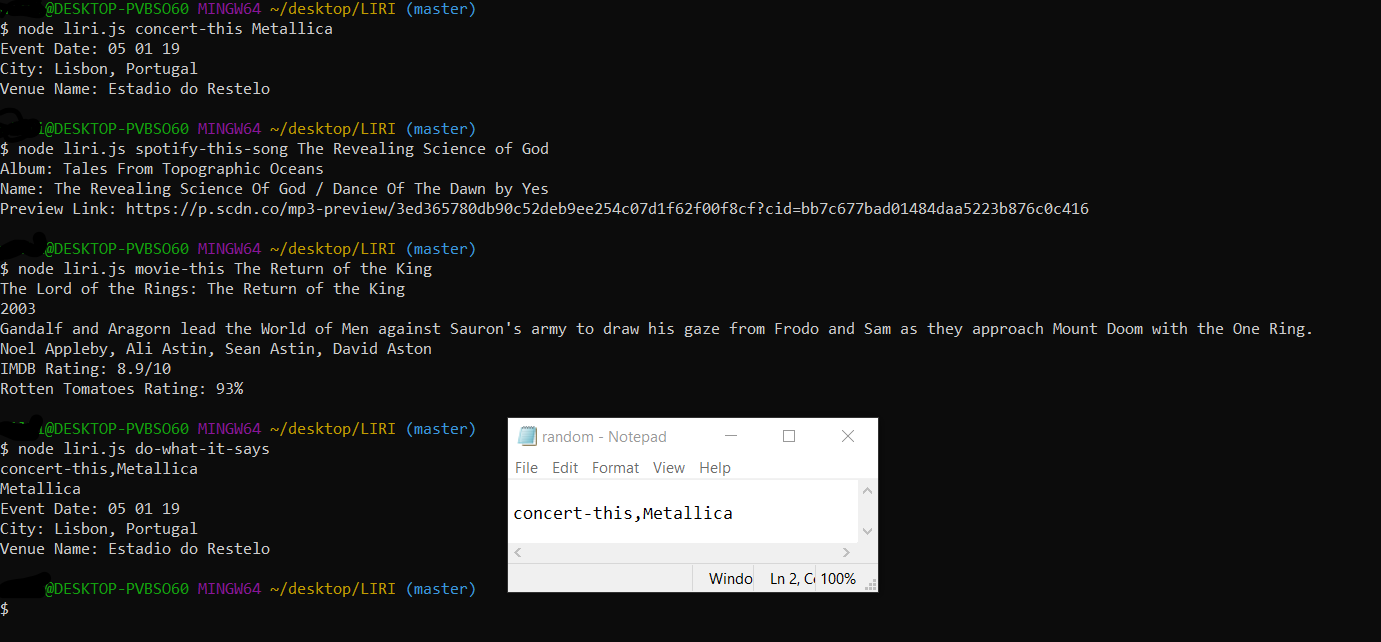
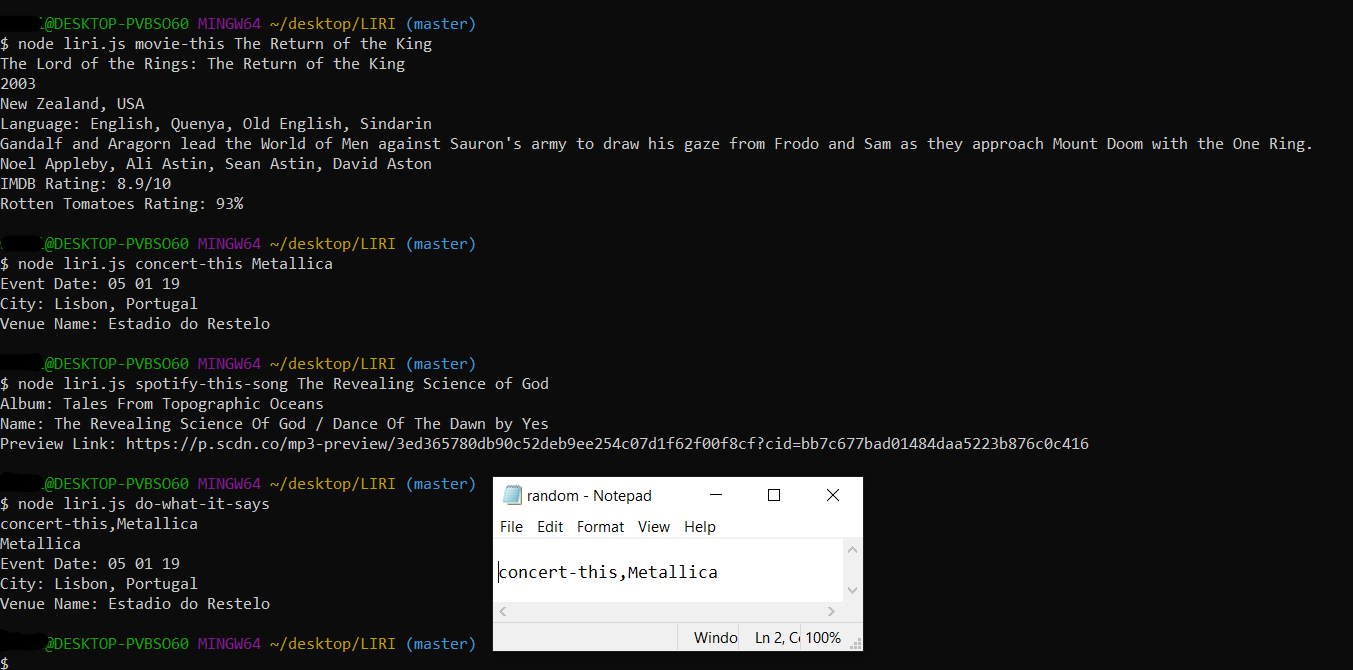
Added movie Language and Country

diff --git a/liri.js b/liri.js
@@ -54,6 +54,8 @@ function movieThis(input){
     axios.get(queryUrl).then(function(response){
         console.log(response.data.Title);
         console.log(response.data.Year);
+        console.log(response.data.Country);
+        console.log("Language: " + response.data.Language);
         console.log(response.data.Plot);
         console.log(response.data.Actors);
         console.log("IMDB Rating: " + response.data.Ratings[0].Value);

diff --git a/README.md b/README.md
@@ -1,1 +1,16 @@
 # LIRI
+
+LIRI is a Language Interpretation and Recognition Interface that responds to four different commands.
+![GitHub Logo](/screenshot/LIRI Showcase Screenshot.png)
+Format: ![Screenshot](https://raw.githubusercontent.com/HunterWilkins/LIRI/master/screenshot/LIRI%20Showcase%20Screenshot.png)
+As you can see, the four commands work like so:
+
+concert-this takes the next argument in the line and plugs it into the bandsintown api. The api then gives back 
+the date, location, and venue name of the first event in the results.
+
+spotify-this-song takes the next argument (presumably a song), looks through the spotify api, and returns the
+album the song's from, the full name of the song, and a link to preview the song on spotify.
+
+movie-this takes the next argument (presumably a movie), looks through the omdb api, and returns the full name
+of the movie, the year it was made, the country it was made in, the plot synopsis, and the actors who starred
+in it.
